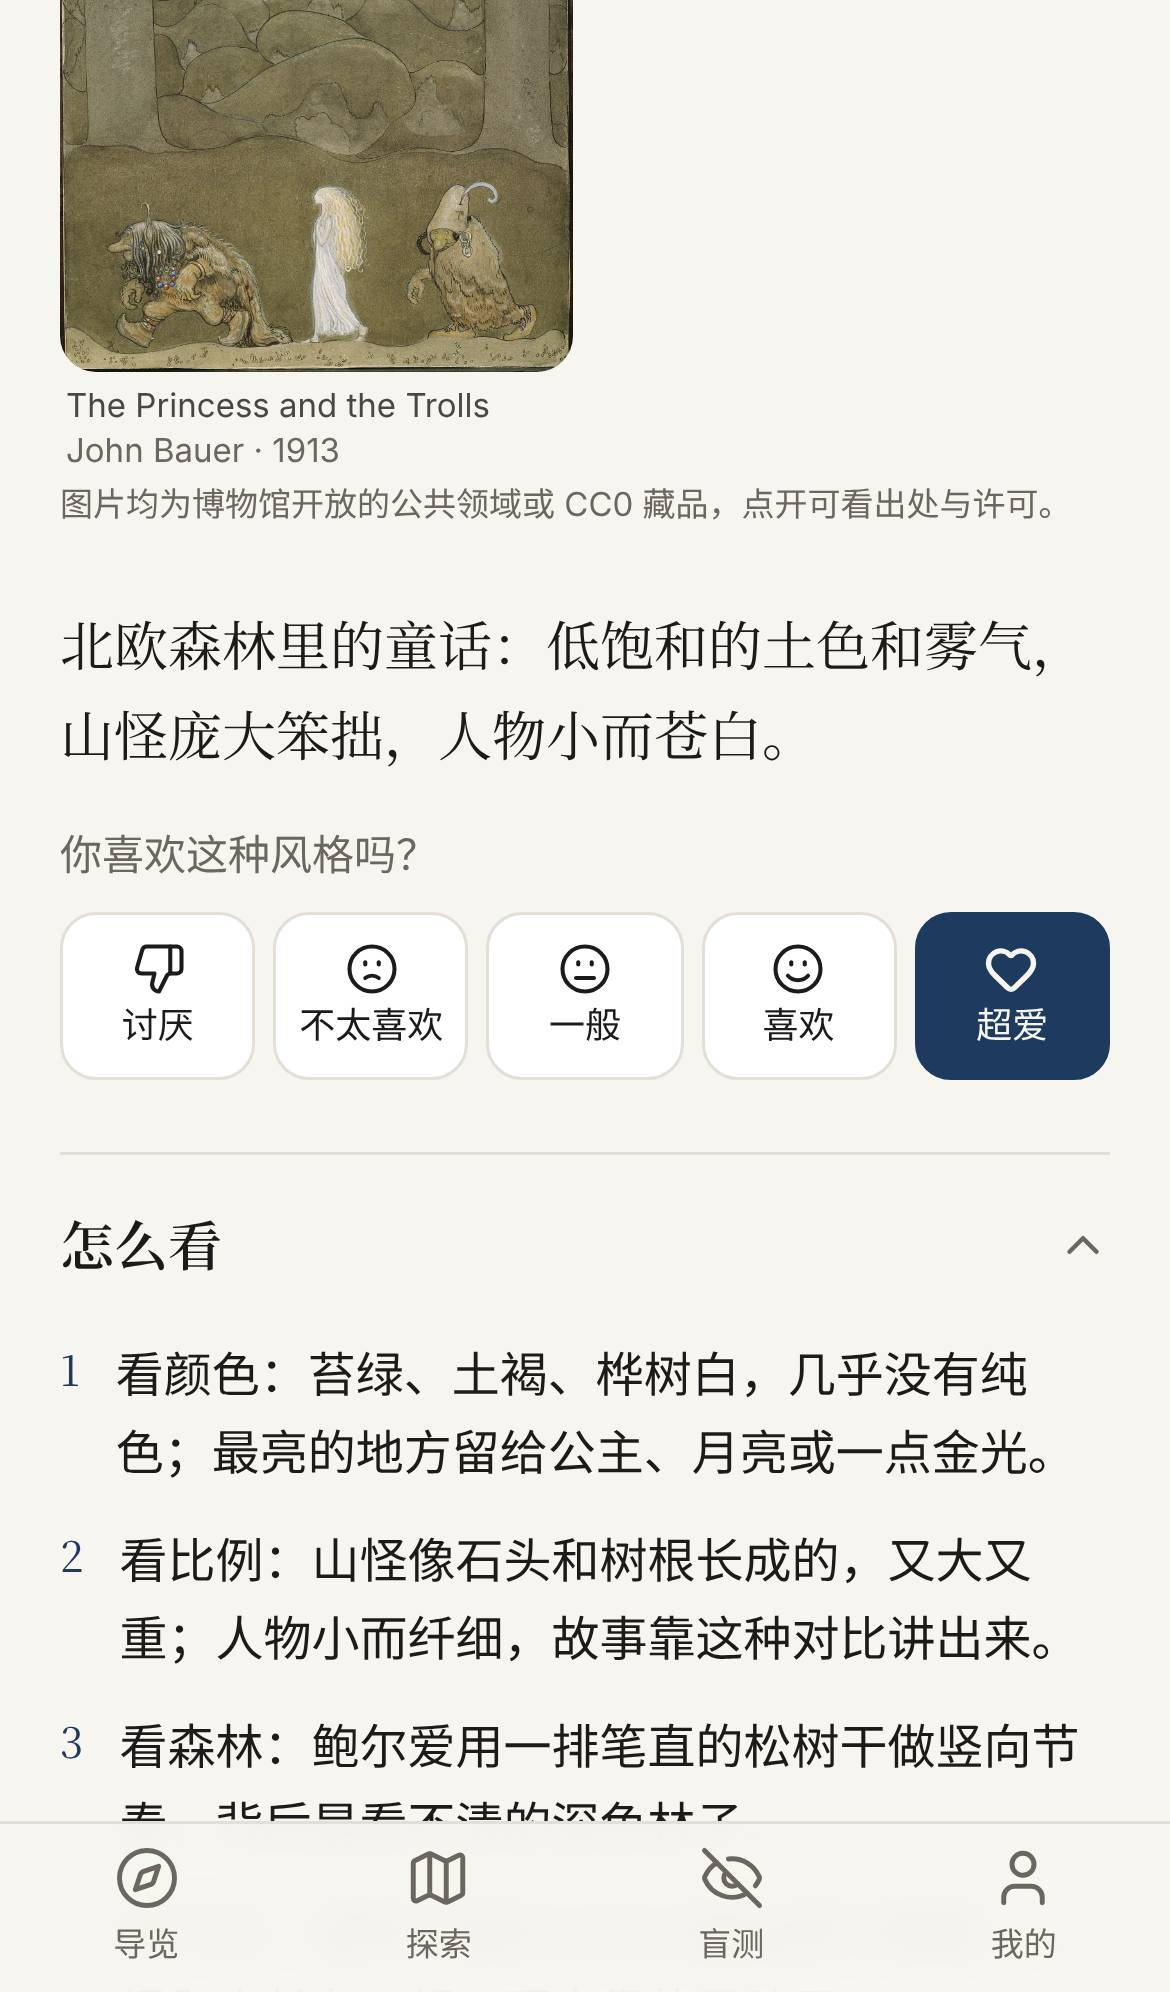
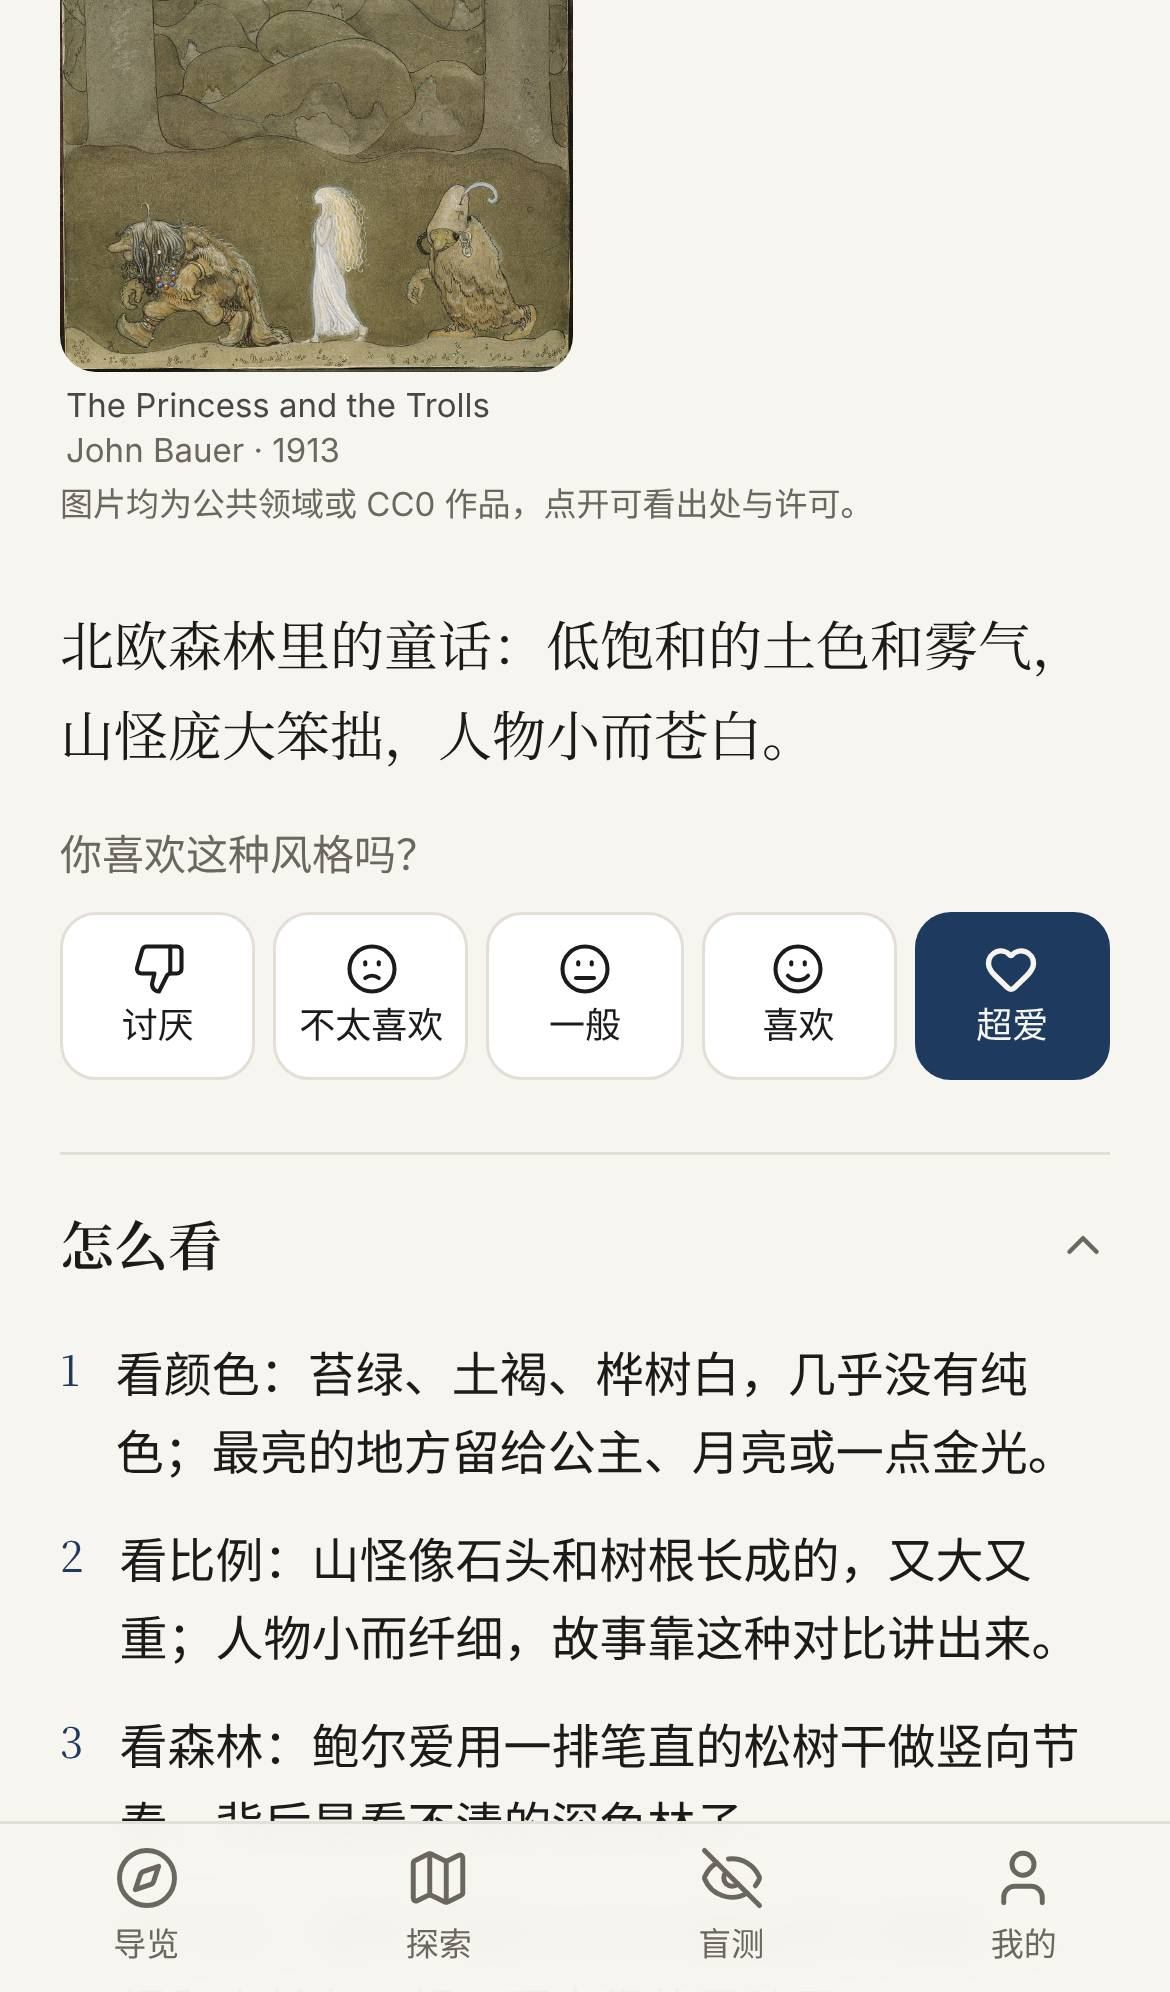
feat: pixel-art images live, gallery license note, pixel e2e
- pixel-art becomes open-license (4 Commons works, rendered pixelated)
- gallery note names CC BY / BY-SA when the style uses them
- coverage labels Pratham images as StoryWeaver; report regenerated
- SPEC §6.9 image-source column matches what shipped
- e2e: pixel art stays crisp in thumbnails and the viewer

Claude-Session: https://claude.ai/code/session_01Y9UY6mCtZY3GpWfvo5mWvw

Changed region(s): [[0.1538, 0.249, 0.6769, 0.2801], [0.7077, 0.249, 0.8923, 0.2801]]

diff --git a/e2e/pixel.spec.ts b/e2e/pixel.spec.ts
@@ -1,0 +1,25 @@
+import { expect, test } from '@playwright/test'
+
+/** 像素画（DECISIONS 2026-11-12）：缩略图和看图器里都按像素显示，许可写明 CC BY / BY-SA */
+test('像素画按像素显示，看图器里也不平滑', async ({ page }) => {
+  const errors: string[] = []
+  page.on('pageerror', (e) => errors.push(String(e)))
+
+  await page.goto('./#/style/pixel-art')
+  await expect(page.getByRole('heading', { name: '像素艺术' })).toBeVisible()
+  const thumbs = page.locator('img[data-pixelated]')
+  await expect(thumbs.first()).toBeVisible()
+  expect(await thumbs.count()).toBeGreaterThanOrEqual(4)
+  expect(await thumbs.first().evaluate((el) => getComputedStyle(el).imageRendering)).toBe('pixelated')
+  await expect(page.getByText('图片是作者用 CC BY、CC BY-SA 等许可公开的作品')).toBeVisible()
+
+  await page.getByRole('button', { name: /^看大图：/ }).first().click()
+  const big = page.locator('.pswp__img[data-pixelated]').first()
+  await expect(big).toBeVisible()
+  expect(await big.evaluate((el) => getComputedStyle(el).imageRendering)).toBe('pixelated')
+  await expect(page.locator('.pswp').getByText(/CC BY(-SA)? 4\.0/).first()).toBeVisible()
+  await expect(page.locator('.pswp').getByRole('link', { name: '许可原文' })).toBeVisible()
+  await page.screenshot({ path: `docs/screenshots/phase-3.5/${test.info().project.name}-09-pixel-viewer.jpg`, quality: 70 })
+
+  expect(errors).toEqual([])
+})

diff --git a/src/features/style/Gallery.tsx b/src/features/style/Gallery.tsx
@@ -1,5 +1,5 @@
 import { artImgAttrs, artworksOfStyle, publicUrl } from '../../content'
-import type { Artwork, Style } from '../../content/schema'
+import { attributionLicenses, type Artwork, type Style } from '../../content/schema'
 import type { RatingContext } from '../../lib/storage'
 import { artworkAlt, useViewer } from '../viewer/useViewer'
 
@@ -56,7 +56,11 @@ export function Gallery({ style, context = 'browse' }: { style: Style; context?:
           </figure>
         ))}
       </div>
-      <p className="text-[11px] text-muted">图片均为博物馆开放的公共领域或 CC0 藏品，点开可看出处与许可。</p>
+      <p className="text-[11px] text-muted">
+        {artworks.some((a) => attributionLicenses.includes(a.license))
+          ? '图片是作者用 CC BY、CC BY-SA 等许可公开的作品，点开可看作者、出处与许可。'
+          : '图片均为公共领域或 CC0 作品，点开可看出处与许可。'}
+      </p>
       {viewer.element}
     </>
   )

diff --git a/scripts/lib/coverage.ts b/scripts/lib/coverage.ts
@@ -7,6 +7,7 @@ const sourceNames: Record<string, string> = {
   cma: 'CMA',
   commons: 'Commons',
   loc: 'LoC',
+  pratham: 'StoryWeaver',
 }
 
 const modeNames: Record<string, string> = {

diff --git a/docs/SPEC.md b/docs/SPEC.md
@@ -400,8 +400,6 @@ subjects: { figures: 人物, landscape: 风景, flora-fauna: 花鸟动物, narra
 
 ### 6.9 现代与当代
 
-| 风格 | 地域 · 年代 | 代表 | 图源 | 阶段 |
-| --- | --- | --- | --- | --- |
 2026-11-11 起这一章是导览主线的主体，先做“现代第 1 批”12 种（新增日系角色插画、等距插画、水粉插画 3 种）。图源一栏的“开放许可”指作者自己用 CC0、CC BY 或 CC BY-SA 开放的作品（§8），凑不够 4 幅好图的照旧只给外链；所有外链风格都可以用剪贴簿补你自己存的图（§4.5）。
 
 | 风格 | 地域 · 年代 | 代表 | 图源 | 阶段 |
@@ -414,12 +412,12 @@ subjects: { figures: 人物, landscape: 风景, flora-fauna: 花鸟动物, narra
 | 观念插画 Conceptual editorial illustration `editorial` | 全球 · 1970 至今 | 布拉德·霍兰、让-米歇尔·弗隆、克里斯托夫·尼曼 | 外链 | 现代 1 |
 | 日本动画美术 Anime background art `anime-art` | 日本 · 1980 至今 | 男鹿和雄（吉卜力背景）、新海诚 | 外链 | 现代 1 |
 | 日系角色插画 Anime-style character illustration `anime-illustration` | 日本、全球 · 1980 至今 | 美树本晴彦、贞本义行；pixiv | 外链 | 现代 1 |
-| 像素艺术 Pixel art `pixel-art` | 全球 · 1980 至今 | 苏珊·卡雷、eBoy | 开放许可：Commons、OpenGameArt（CC0 / CC BY） | 现代 1 |
-| 等距插画 Isometric illustration `isometric` | 全球 · 1982 至今 | 《Zaxxon》、eBoy、《纪念碑谷》 | 开放许可：Commons（CC0 / CC BY） | 现代 1 |
-| 数字厚涂与概念美术 Digital painting & concept art `concept-art` | 全球 · 1990 至今 | 拉尔夫·麦夸里、克雷格·穆林斯 | 开放许可：Blender 开源电影、大卫·勒瓦（David Revoy，CC BY） | 现代 1 |
+| 像素艺术 Pixel art `pixel-art` | 全球 · 1980 至今 | 苏珊·卡雷、eBoy | 开放许可：Commons（CC BY / BY-SA），按原始像素放大（§8.2 第 9 条） | 现代 1 |
+| 等距插画 Isometric illustration `isometric` | 全球 · 1982 至今 | 《Zaxxon》、eBoy、《纪念碑谷》 | 外链（Commons 上几乎只有制图课的投影示意图） | 现代 1 |
+| 数字厚涂与概念美术 Digital painting & concept art `concept-art` | 全球 · 1990 至今 | 拉尔夫·麦夸里、克雷格·穆林斯 | 开放许可：Commons，以大卫·勒瓦（David Revoy）的作品为主（CC BY / BY-SA） | 现代 1 |
 | 水粉插画 Gouache illustration `gouache` | 全球 · 1940 至今 | 玛丽·布莱尔；动画背景用的广告颜料 | 开放许可：按画面从 StoryWeaver 图库挑 | 现代 1 |
 | 孔版印刷风 Risograph aesthetic `risograph` | 全球 · 2005 至今 | 独立出版与 zine | 外链 | 现代 1 |
-| 扁平矢量插画 Flat vector illustration `flat-vector` | 全球 · 2010 至今 | 科技公司的人物插画（“Corporate Memphis”）、Buck 的 Alegria | 开放许可：Open Peeps 等 CC0 素材、Commons | 现代 1 |
+| 扁平矢量插画 Flat vector illustration `flat-vector` | 全球 · 2010 至今 | 科技公司的人物插画（“Corporate Memphis”）、Buck 的 Alegria | 外链（开放素材多是零散的人物部件，凑不出完整插画） | 现代 1 |
 | 国潮插画 Guochao `guochao` | 中国 · 2016 至今 | 中国李宁、故宫文创；传统纹样与传统色 | 外链 | 现代 1 |
 
 MVP 暂缺非洲、拉丁美洲、喜马拉雅和东欧，全量阶段补齐。凯·尼尔森 1957 年去世，在欧盟 2028 年才进入公共领域，在此之前只给外链。

diff --git a/docs/COVERAGE.md b/docs/COVERAGE.md
@@ -1,8 +1,8 @@
 # 图片覆盖报告
 
-由 `npm run coverage` 生成，请勿手改。生成日期：2026-11-11。
+由 `npm run coverage` 生成，请勿手改。生成日期：2026-11-12。
 
-已写 6 / 计划 77 种风格（ready 6）；作品 37 幅；图片合计 9.8 MB（上限 150 MB）。
+已写 18 / 计划 80 种风格（ready 18）；作品 62 幅；图片合计 13.0 MB（上限 150 MB）。
 
 ## 抄本、细密画与圣像（1 / 9）
 
@@ -58,13 +58,28 @@
 | --- | --- | --- | --- | --- | --- | --- | --- |
 | 新艺术运动 `art-nouveau` | ready | 真迹 | 8 | AIC 3、CMA 3、Commons 1、Met 1 | 4 | 有 | 1.9 MB |
 
-还没写：工艺美术运动、日本主义、美好年代海报、唯美主义黑白线描、维也纳分离派与青年风格、月份牌、装饰艺术风插画、WPA 海报 WPA posters。
+还没写：工艺美术运动、日本主义、美好年代海报、唯美主义黑白线描、维也纳分离派与青年风格、月份牌、装饰艺术风插画、WPA 海报。
 
-## 现代与当代（0 / 12）
+## 现代与当代（12 / 15）
 
-还没写：苏联先锋派、中世纪现代插画、波兰海报学派、当代绘本、迷幻海报、观念插画、日本动画美术、像素艺术、数字厚涂与概念美术、孔版印刷风、扁平矢量插画、国潮插画。
+| 风格 | 状态 | 方式 | 图数 | 来源 | 作者数（约） | 封面 | 体积 |
+| --- | --- | --- | --- | --- | --- | --- | --- |
+| 水粉插画 `gouache` | ready | 开放许可 | 6 | StoryWeaver 6 | 6 | 有 | 0.7 MB |
+| 中世纪现代插画 `mid-century-modern` | ready | 外链 | — | — | — | — | — |
+| 当代绘本 `picture-books` | ready | 开放许可 | 8 | StoryWeaver 8 | 8 | 有 | 1.1 MB |
+| 观念插画 `editorial` | ready | 外链 | — | — | — | — | — |
+| 日本动画美术 `anime-art` | ready | 外链 | — | — | — | — | — |
+| 像素艺术 `pixel-art` | ready | 开放许可 | 4 | Commons 4 | 4 | 有 | 0.1 MB |
+| 日系角色插画 `anime-illustration` | ready | 外链 | — | — | — | — | — |
+| 等距插画 `isometric` | ready | 外链 | — | — | — | — | — |
+| 数字厚涂与概念美术 `concept-art` | ready | 开放许可 | 7 | Commons 7 | 4 | 有 | 1.4 MB |
+| 孔版印刷风 `risograph` | ready | 外链 | — | — | — | — | — |
+| 扁平矢量插画 `flat-vector` | ready | 外链 | — | — | — | — | — |
+| 国潮插画 `guochao` | ready | 外链 | — | — | — | — | — |
+
+还没写：苏联先锋派、波兰海报学派、迷幻海报。
 
 ## 降级与缺口
 
-- 外链风格（版权未过期，只给搜索链接）：日本漫画
+- 外链风格（找不到开放图，只给搜索链接）：日本动画美术、日系角色插画、观念插画、扁平矢量插画、国潮插画、等距插画、日本漫画、中世纪现代插画、孔版印刷风
 - 配图不足 4 幅：无

diff --git a/content/styles/pixel-art.md b/content/styles/pixel-art.md
@@ -7,7 +7,7 @@ nameOriginal: ドット絵
 family: modern
 regions: [global, japan]
 era: { start: 1980, end: null, label: "约 1980 至今" }
-imageMode: external-only
+imageMode: open-license
 attributes: { lineMass: 1, flatVolume: -1, sparseDense: 0, naturalStylized: 2, mutedVivid: 1 }
 moods: [whimsical]
 mediums: [digital]
@@ -25,6 +25,7 @@ prompt:
   composition: ["side-view game scene", "tile-based layout", "small sprite characters"]
   artistsPD: []
   negative: ["anti-aliasing blur", "smooth gradients", "photorealistic", "3D render", "soft brush strokes"]
+coverArtworkId: commons-172931842
 externalSearch: "pixel art"
 externalExtra:
   - { site: pixiv, q: "ドット絵" }
@@ -44,7 +45,7 @@ sources:
 - 看斜线：好的像素画会手动排好斜线“台阶”的长短，不靠软件自动抗锯齿。
 
 ## 为什么长这样
-早期电脑和游戏机分辨率低、能同时显示的颜色很少，画师只能在方格里一点点安排颜色。“像素艺术”（pixel art）这个说法 1982 年由施乐帕洛阿尔托研究中心的两位研究者写进期刊文章。苏珊·卡雷（Susan Kare，1954–）为 1984 年的初代 Macintosh 画了图标，八九十年代的游戏又把这门手艺推到高峰。3D 普及以后，像素反而成了一种主动选择的风格：1997 年成立的 eBoy 和后来的独立游戏，都在证明限制本身就很迷人。
+早期电脑和游戏机分辨率低、能同时显示的颜色很少，画师只能在方格里一点点安排颜色。“像素艺术”（pixel art）这个说法 1982 年由施乐帕洛阿尔托研究中心的两位研究者写进期刊文章。苏珊·卡雷（Susan Kare，1954–）为 1984 年的初代 Macintosh 画了图标，八九十年代的游戏又把这门手艺推到高峰。3D 普及以后，像素反而成了一种主动选择的风格：1997 年成立的 eBoy 和后来的独立游戏，都在证明限制本身就很迷人。应用里的图来自维基共享资源上以 CC BY 或 BY-SA 开放的作品，按原始像素整数倍放大，不做平滑。
 
 ## 怎么画
 工具：Aseprite，或任何能画 1 像素硬边、能关掉抗锯齿的画图软件；方格纸加马克笔也行。

diff --git a/content/styles/concept-art.md b/content/styles/concept-art.md
@@ -44,7 +44,7 @@ sources:
 - 看用途：很多图其实是工作稿，同一个设计常画好几版，供导演和团队挑。
 
 ## 为什么长这样
-“概念美术”一词至少在 1930 年代的迪士尼片场就在用，指开拍前确定世界和气氛的画。拉尔夫·麦夸里（Ralph McQuarrie，1929–2012）为 1977 年上映的《星球大战》画的概念图，让这门手艺广为人知。九十年代画师改用数位板和电脑：克雷格·穆林斯（Craig Mullins，1964–）1995 年为梦工厂的《埃及王子》全部用 Photoshop 画视觉开发图，被视为数字绘画的先驱。如今电影和游戏都靠数字厚涂快速试方案。应用里的图来自维基共享资源上以 CC BY 或 BY-SA 开放的作品，过半出自法国画家大卫·勒沃伊（David Revoy）。
+“概念美术”一词至少在 1930 年代的迪士尼片场就在用，指开拍前确定世界和气氛的画。拉尔夫·麦夸里（Ralph McQuarrie，1929–2012）为 1977 年上映的《星球大战》画的概念图，让这门手艺广为人知。九十年代画师改用数位板和电脑：克雷格·穆林斯（Craig Mullins，1964–）1995 年为梦工厂的《埃及王子》全部用 Photoshop 画视觉开发图，被视为数字绘画的先驱。如今电影和游戏都靠数字厚涂快速试方案。应用里的图来自维基共享资源上以 CC BY 或 BY-SA 开放的作品，过半出自法国画家大卫·勒瓦（David Revoy）。
 
 ## 怎么画
 工具：数位板加 Photoshop、Krita 或 Procreate；几支方头笔刷和纹理笔刷就够。
